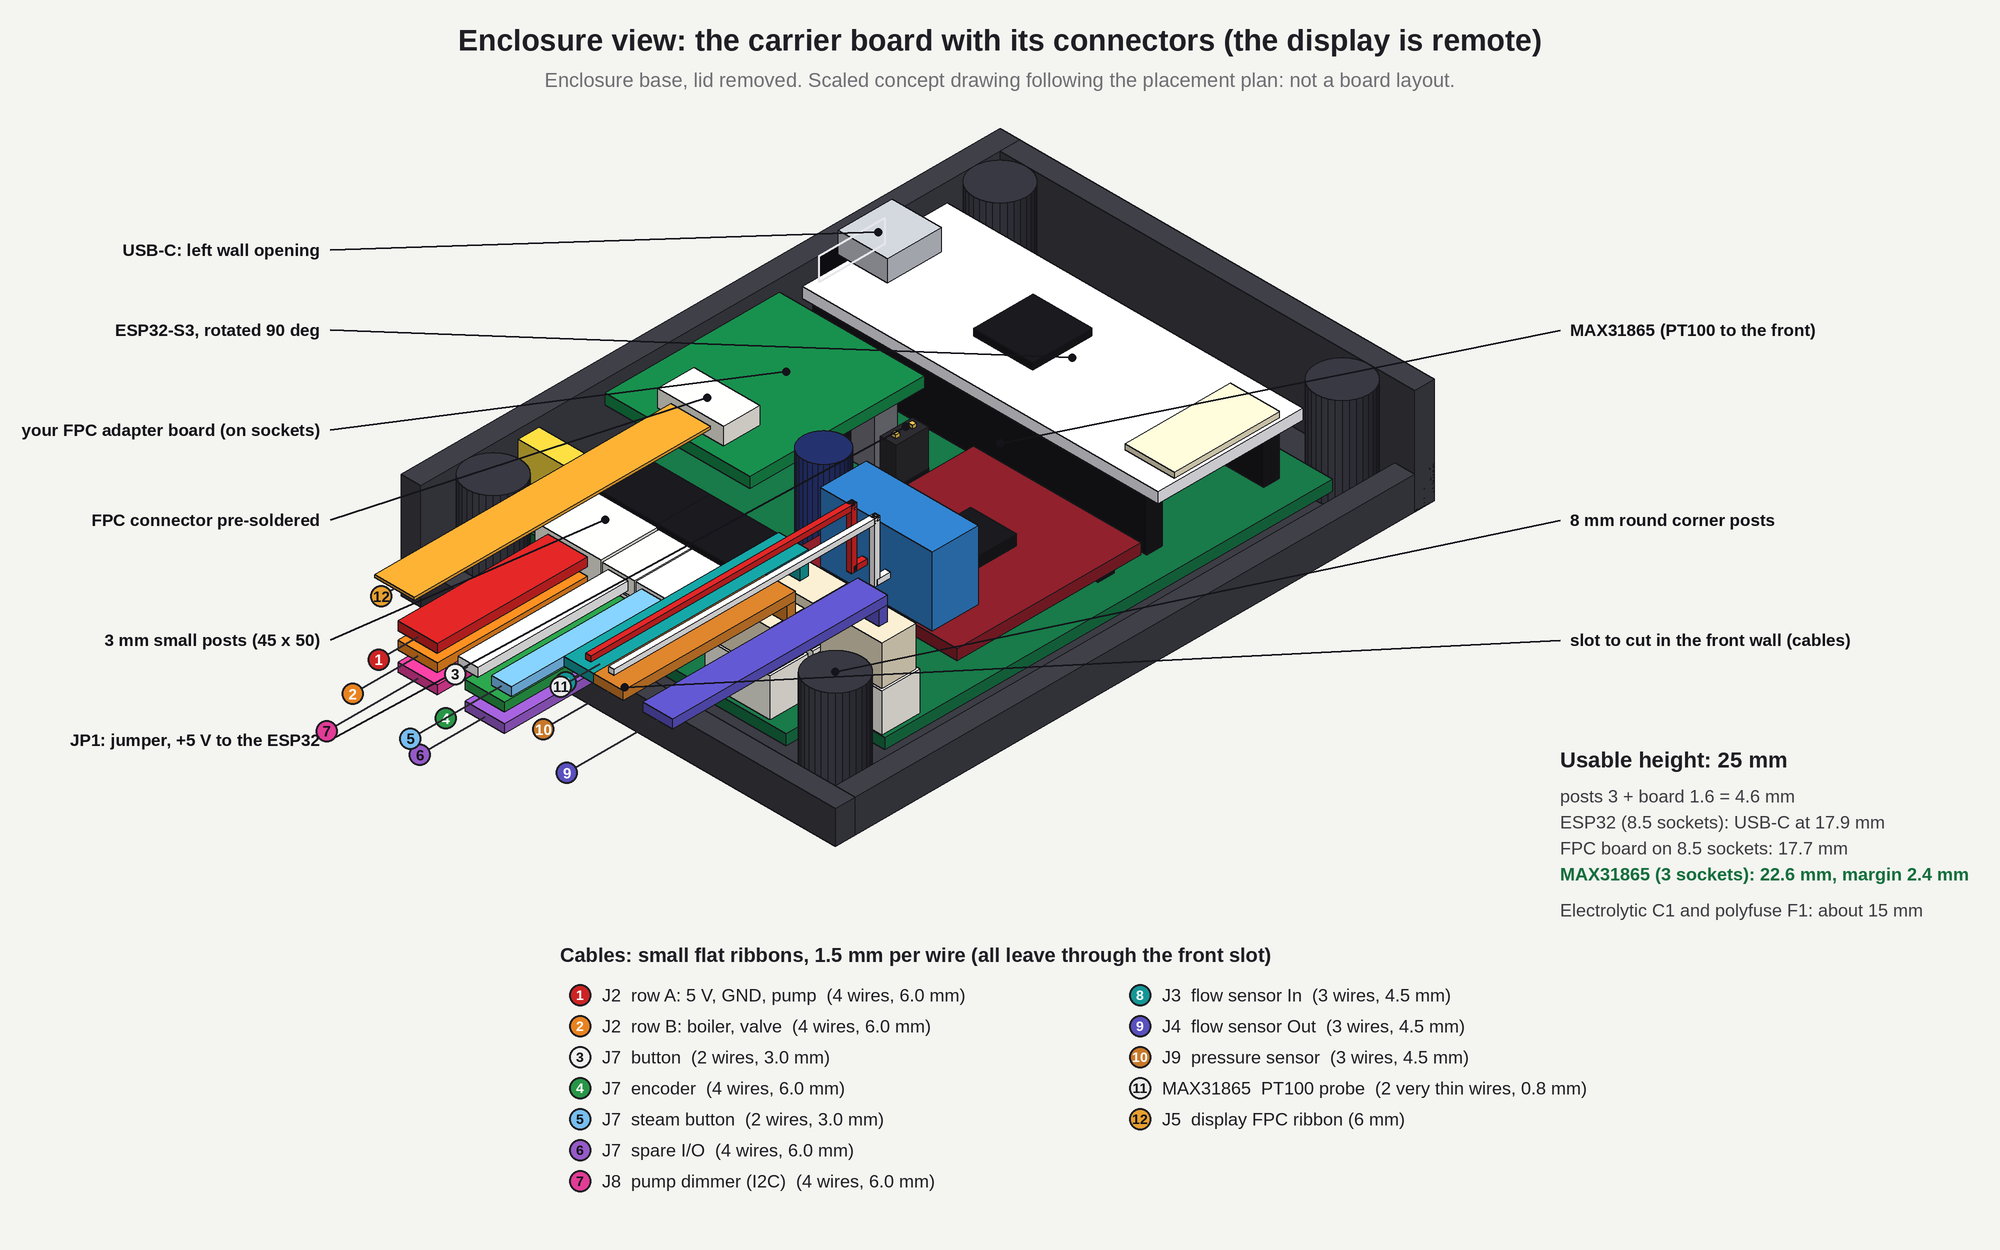
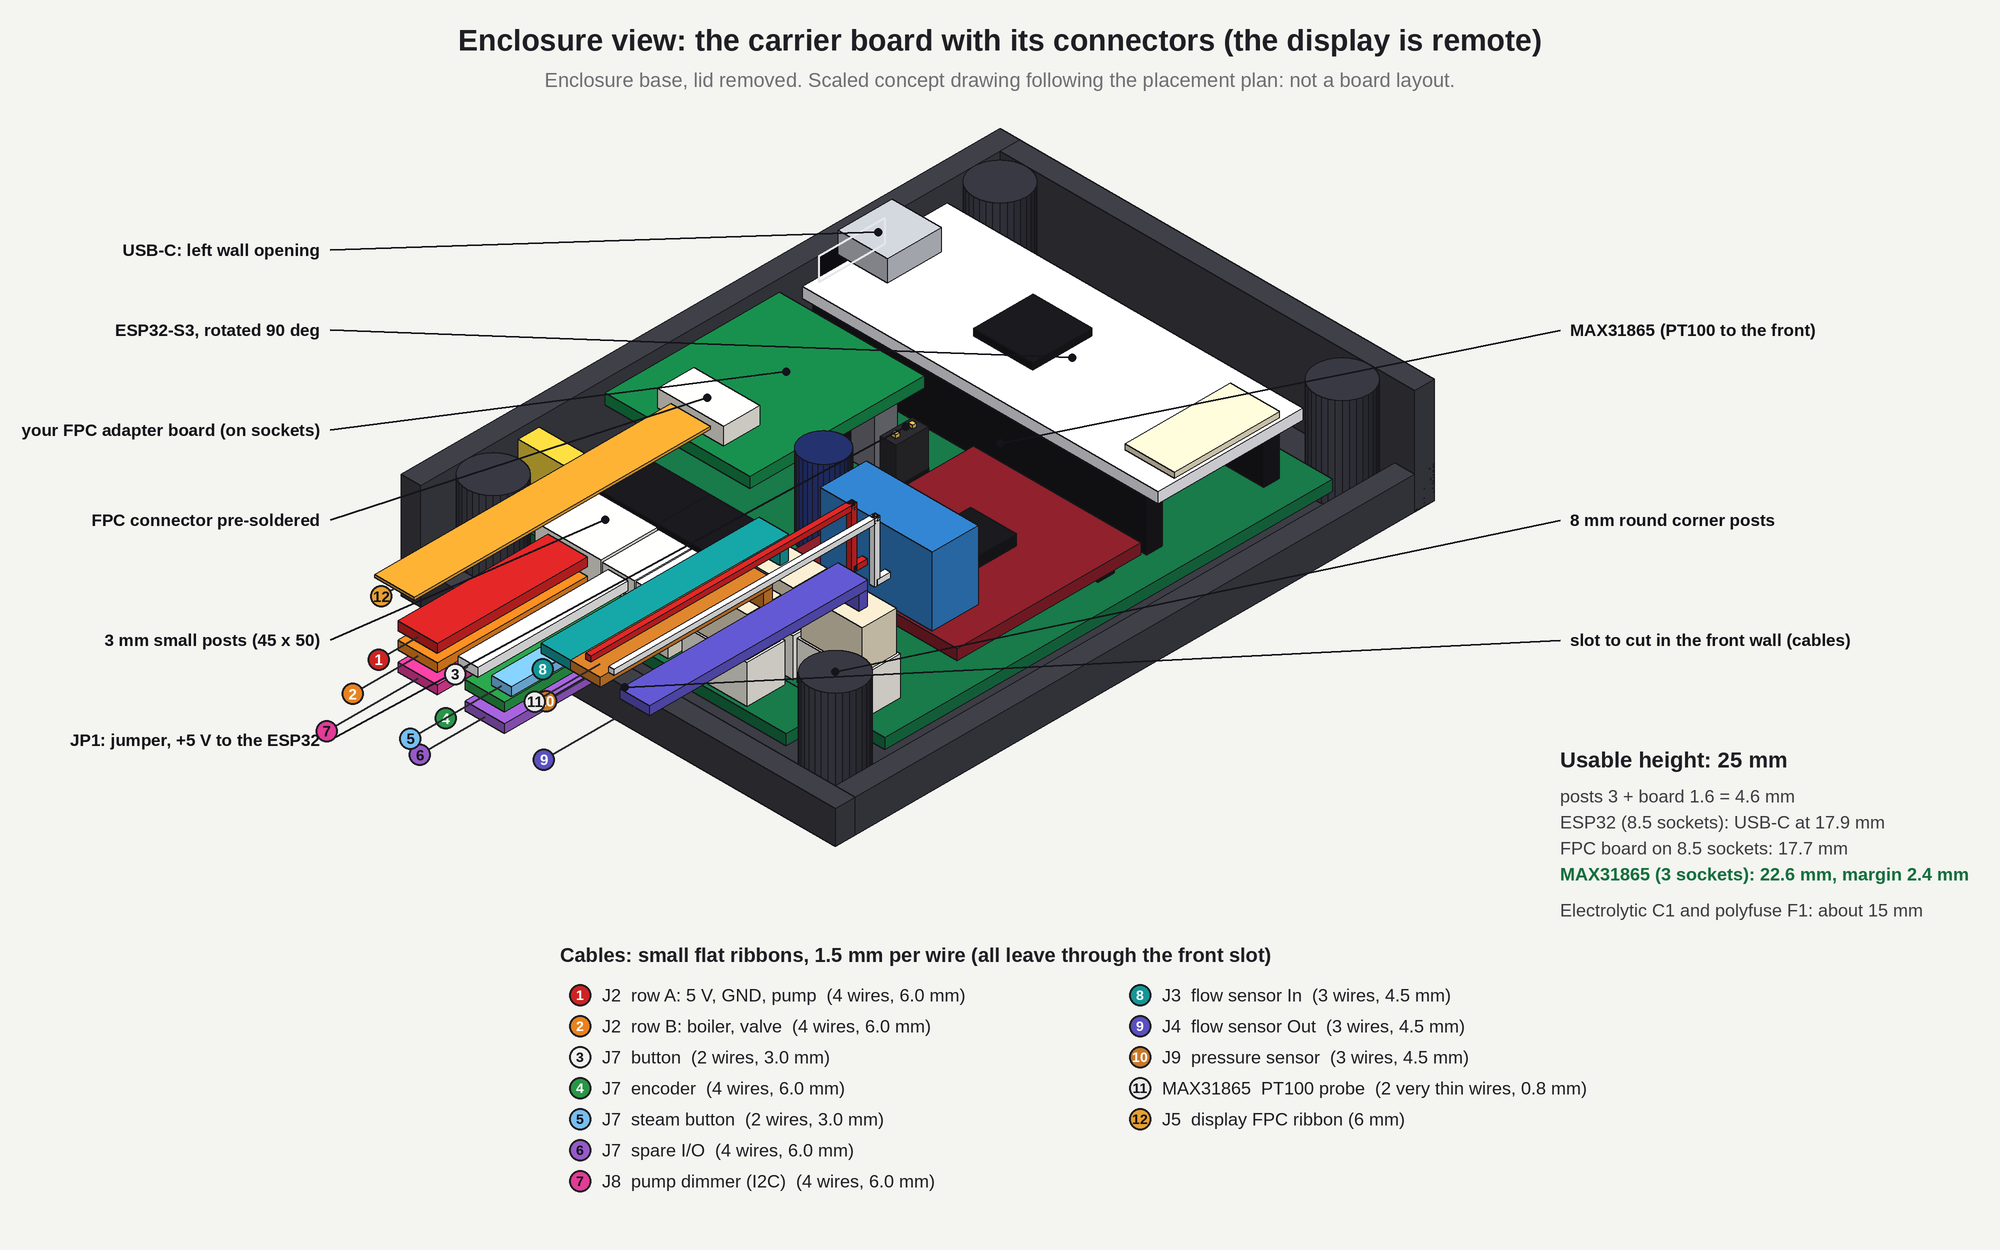
Shift J3, J4 and J9 left (3.5 mm) and J3, J4 back 0.5 mm for more margin
Claude-Session: https://claude.ai/code/session_012AnZeUFZeKvHXGUDRfJG7Q

Changed region(s): [[0.248, 0.4056, 0.465, 0.624]]

diff --git a/tools/enclosure_overview.py b/tools/enclosure_overview.py
@@ -171,13 +171,13 @@ cuboid(CX0 + 1.2, CY0 + 61.2, top, 2.7, 2.7, 5.2, BLACK)
 cyl(CX0 + 27.2, CY0 + 46.5, 3.15, top, 12.0, (30, 40, 90))                                # 470 uF electrolytic
 cuboid(CX0 + 25.5, CY0 + 39.2, top, 4.0, 1.6, 4.2, (200, 120, 40))                        # 100 nF
 for k in range(2):
-    xb = CX0 + 42.0 + k * 10.5 - 4.95
-    cuboid(xb, CY0 + 62.1, top, 9.9, 5.8, 5.8, WHITE)                                     # JST XH header
-    cuboid(xb + 0.3, CY0 + 62.4, top + 5.8, 9.3, 5.2, 6.0, CREAM)                         # its plug
+    xb = CX0 + 38.5 + k * 10.5 - 4.95
+    cuboid(xb, CY0 + 61.6, top, 9.9, 5.8, 5.8, WHITE)                                     # JST XH header
+    cuboid(xb + 0.3, CY0 + 61.9, top + 5.8, 9.3, 5.2, 6.0, CREAM)                         # its plug
 
 # J9: JST XH header (pressure sensor) on the tab under J3, with its plug (the cable is drawn with the other cables)
-cuboid(CX0 + 42.0 - 4.95, CY0 + 68.6, top, 9.9, 5.8, 5.8, WHITE)
-cuboid(CX0 + 42.0 - 4.95 + 0.3, CY0 + 68.6 + 0.3, top + 5.8, 9.3, 5.2, 6.0, CREAM)           # its plug
+cuboid(CX0 + 38.5 - 4.95, CY0 + 68.6, top, 9.9, 5.8, 5.8, WHITE)
+cuboid(CX0 + 38.5 - 4.95 + 0.3, CY0 + 68.6 + 0.3, top + 5.8, 9.3, 5.2, 6.0, CREAM)           # its plug
 
 # FPC ribbon: leaves the connector towards the front and runs straight out
 Y_END = CY0 + 97.0
@@ -236,17 +236,17 @@ c8 = (225, 60, 150)
 run_x(xj2, Y0, Y_END, top + 1.27, 4, c8); cable("pump dimmer (I2C)", "J8", 4, c8, (xj2, Y_END, top + 1.27))
 # JST XH: flow sensors (3 wires each), up from the plugs then forward
 c3, c4 = (20, 150, 150), (90, 80, 190)
-riser_x(CX0 + 40.5, CY0 + 65.0, top + 11.8, top + 14.0, 3, c3)
-cuboid(CX0 + 40.5 - 2.25, CY0 + 65.0 - 0.65, top + 14.0, 4.5, Y_END - (CY0 + 65.0 - 0.65), TH, c3)
-cable("flow sensor In", "J3", 3, c3, (CX0 + 40.5, Y_END, top + 14.0))
-riser_x(CX0 + 52.5, CY0 + 65.0, top + 11.8, top + 14.0, 3, c4)
-cuboid(CX0 + 52.5 - 2.25, CY0 + 65.0 - 0.65, top + 14.0, 4.5, Y_END - (CY0 + 65.0 - 0.65), TH, c4)
-cable("flow sensor Out", "J4", 3, c4, (CX0 + 52.5, Y_END, top + 14.0))
+riser_x(CX0 + 37.0, CY0 + 64.5, top + 11.8, top + 14.0, 3, c3)
+cuboid(CX0 + 37.0 - 2.25, CY0 + 64.5 - 0.65, top + 14.0, 4.5, Y_END - (CY0 + 64.5 - 0.65), TH, c3)
+cable("flow sensor In", "J3", 3, c3, (CX0 + 37.0, Y_END, top + 14.0))
+riser_x(CX0 + 49.0, CY0 + 64.5, top + 11.8, top + 14.0, 3, c4)
+cuboid(CX0 + 49.0 - 2.25, CY0 + 64.5 - 0.65, top + 14.0, 4.5, Y_END - (CY0 + 64.5 - 0.65), TH, c4)
+cable("flow sensor Out", "J4", 3, c4, (CX0 + 49.0, Y_END, top + 14.0))
 # J9 pressure sensor: JST XH under J3, 3 wires up from its plug (x 45, so beside the cable of J3 and clear of J4), then forward to the slot
 c9 = (200, 120, 40)
-riser_x(CX0 + 45.0, CY0 + 71.5, top + 11.8, top + 14.0, 3, c9)
-cuboid(CX0 + 45.0 - 2.25, CY0 + 71.5 - 0.65, top + 14.0, 4.5, Y_END - (CY0 + 71.5 - 0.65), TH, c9)
-cable("pressure sensor", "J9", 3, c9, (CX0 + 45.0, Y_END, top + 14.0))
+riser_x(CX0 + 41.5, CY0 + 71.5, top + 11.8, top + 14.0, 3, c9)
+cuboid(CX0 + 41.5 - 2.25, CY0 + 71.5 - 0.65, top + 14.0, 4.5, Y_END - (CY0 + 71.5 - 0.65), TH, c9)
+cable("pressure sensor", "J9", 3, c9, (CX0 + 41.5, Y_END, top + 14.0))
 # PT100 probe: two very thin wires (0.8 mm) screwed on the two middle terminals of the MAX31865 block (RTD+ and RTD-, 3.5 mm apart),
 # straight out of the block, up in front of it, then forward over J3 and out through the slot
 DW = 0.8

diff --git a/tools/board_placement.py b/tools/board_placement.py
@@ -208,17 +208,17 @@ tpad(26.0, 40.0, ring=1.6, drill=0.8); tpad(28.5, 40.0, ring=1.6, drill=0.8); te
 # C5 100 nF (pressure filter, taller than 3 mm so not under the MAX31865): in the corridor, below C1
 tpad(26.0, 53.5, ring=1.6, drill=0.8); tpad(28.5, 53.5, ring=1.6, drill=0.8); text(d, X(29.8), Y(53.5), "C5", 8, SILK, True, 'lm')
 # JST XH x2: vertical headers, pins along x, the plugs come out upwards: no keep-out towards the front, away from the ribbon path (x 7 to 18)
-for k, (x0, name) in enumerate([(42.0, "J3 flow In"), (52.5, "J4 flow Out")]):
+for k, (x0, name) in enumerate([(38.5, "J3 flow In"), (49.0, "J4 flow Out")]):
     for i in range(3):
-        tpad(x0 + (i - 1) * 2.5, 65.0, square=(i == 0), ring=1.8, drill=1.0)
-    rect(d, X(x0) - 4.95 * K, Y(65.0) - 2.9 * K, X(x0) + 4.95 * K, Y(65.0) + 2.9 * K, outline=SILK + (255,), width=2)
-    text(d, X(x0), Y(62.9), name, 8, SILK, True)
+        tpad(x0 + (i - 1) * 2.5, 64.5, square=(i == 0), ring=1.8, drill=1.0)
+    rect(d, X(x0) - 4.95 * K, Y(64.5) - 2.9 * K, X(x0) + 4.95 * K, Y(64.5) + 2.9 * K, outline=SILK + (255,), width=2)
+    text(d, X(x0), Y(62.4), name, 8, SILK, True)
 
-# J9: JST XH 3-pin (pressure sensor), vertical, on the tab right under J3 (same x, y 71.5): footprint 9.9 x 5.8, margins 0.7 mm to J3 and 0.6 mm to the tab edge
+# J9: JST XH 3-pin (pressure sensor), vertical, on the tab right under J3 (same x, y 71.5): footprint 9.9 x 5.8, margins 1.2 mm to J3 and 0.6 mm to the tab edge
 for i in range(3):
-    tpad(42.0 + (i - 1) * 2.5, 71.5, square=(i == 0), ring=1.8, drill=1.0)
-rect(d, X(42.0) - 4.95 * K, Y(71.5) - 2.9 * K, X(42.0) + 4.95 * K, Y(71.5) + 2.9 * K, outline=SILK + (255,), width=2)
-text(d, X(42.0), Y(69.55), "J9 pressure", 8, SILK, True)
+    tpad(38.5 + (i - 1) * 2.5, 71.5, square=(i == 0), ring=1.8, drill=1.0)
+rect(d, X(38.5) - 4.95 * K, Y(71.5) - 2.9 * K, X(38.5) + 4.95 * K, Y(71.5) + 2.9 * K, outline=SILK + (255,), width=2)
+text(d, X(38.5), Y(69.55), "J9 pressure", 8, SILK, True)
 
 # ---------------------------------------------------------------- the raised boards, translucent (they hide nothing)
 # ESP32-S3 board ~22 x 54 at x 2.5..56.5, y 3..25 (rotated 90 degrees, USB-C to the left)
@@ -313,7 +313,7 @@ chk = [
     "PT100 wires leave at the front above J7 / J3 / J4, at about 14 mm;",
     "Dupont housings end at the front wall (the board has a 42 x 7 tab there); cable slot in the wall;",
     "M2 holes and pin-1 orientation of the FPC board; pin order of J5, J6 and J7;",
-    "J9 (JST XH under J3): 0.7 mm to J3, 0.6 mm to the tab edge;",
+    "J9 (JST XH under J3): 1.2 mm to J3, 0.6 mm to the tab edge;",
     "check its plug height against the cable of J3 (about 12 mm).",
 ]
 for i, t in enumerate(chk):

diff --git a/docs/carrier_spec.md b/docs/carrier_spec.md
@@ -28,7 +28,7 @@ All **through-hole** parts (no SMD soldering). Related files: `images/board_plac
 | J6 | 1 x 8 female socket (low, 3 mm) | MAX31865 module |
 | J7 | a **3 x 4 right-angle male header** | row A: start button + steam-mode button; row B: encoder (powered from 5 V); row C: 4 spare I/O pins (+5 V, level-adapted input, level-adapted output, GND) |
 | J8 | row C (the lowest) of the J2 header, 4 pins | RobotDyn 4 A pump dimmer, **I2C** (powered from 5 V, through an I2C level shifter) |
-| J9 | JST XH 3-pin, vertical, on the tab right under J3 (centre x 42, y 71.5) | pressure sensor 0.5 to 4.5 V, 0 to 12 bar (powered from 5 V) |
+| J9 | JST XH 3-pin, vertical, on the tab right under J3 (centre x 38.5, y 71.5) | pressure sensor 0.5 to 4.5 V, 0 to 12 bar (powered from 5 V) |
 | JP1 | 1 x 2 male header + shunt jumper | +5 V board to the 5V pin of the ESP32 (see Circuits) |
 | ESP | 2 x 1 x 20 female sockets | ESP32-S3 board (about 22 x 54 mm from the photo; row spacing to be measured) |
 
@@ -87,7 +87,7 @@ Same order as J3 / J4:
 |---|---|---|
 | +5 V | signal | GND |
 
-The footprint (9.9 x 5.8 mm, pins along x, plug upwards, real pitch 2.5 mm) is centred at x 42, y 71.5 mm, inside the 42 x 7 mm tab (y 68 to 75): **only 0.7 mm to J3 and 0.6 mm to the tab edge**, and 1.5 mm from the front wall. Check the plug heights against the cable of J3 (about 12 mm); one more 3-wire cable (4.5 mm) goes through the front slot.
+The footprint (9.9 x 5.8 mm, pins along x, plug upwards, real pitch 2.5 mm) is centred at x 38.5, y 71.5 mm (J3 at x 38.5 and J4 at x 49, both at y 64.5), inside the 42 x 7 mm tab (y 68 to 75): **only 1.2 mm to J3 and 0.6 mm to the tab edge**, and 1.5 mm from the front wall. Check the plug heights against the cable of J3 (about 12 mm); one more 3-wire cable (4.5 mm) goes through the front slot.
 
 G1/4 sensor, 0 to 12 bar, 0.5 to 4.5 V output. The signal goes through a divider, 10 kΩ (series) / 20 kΩ (to GND), which brings 4.5 V down to 3.0 V, plus 100 nF on GPIO 1 (ADC1, 11 dB attenuation); on the board: R22 (10 kΩ) and R23 (20 kΩ) flat under the MAX31865 below R21, C5 (100 nF) in the corridor below C1. Pressure in bar = (sensor voltage − 0.5) x 3. Average the readings (the ESP32 ADC is noisy and not very linear at the ends). The pump can reach about 19 bar at zero flow, above the sensor's 12 bar range: make sure the machine's pressure relief valve limits the pressure at the sensor tap (and check the sensor's overpressure rating).
 
